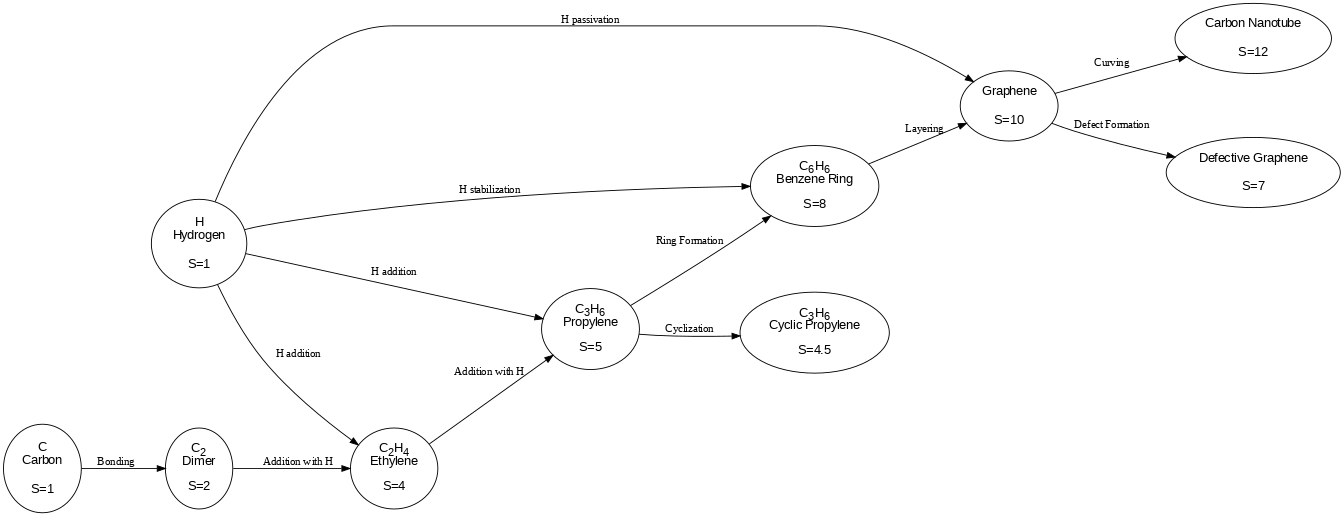
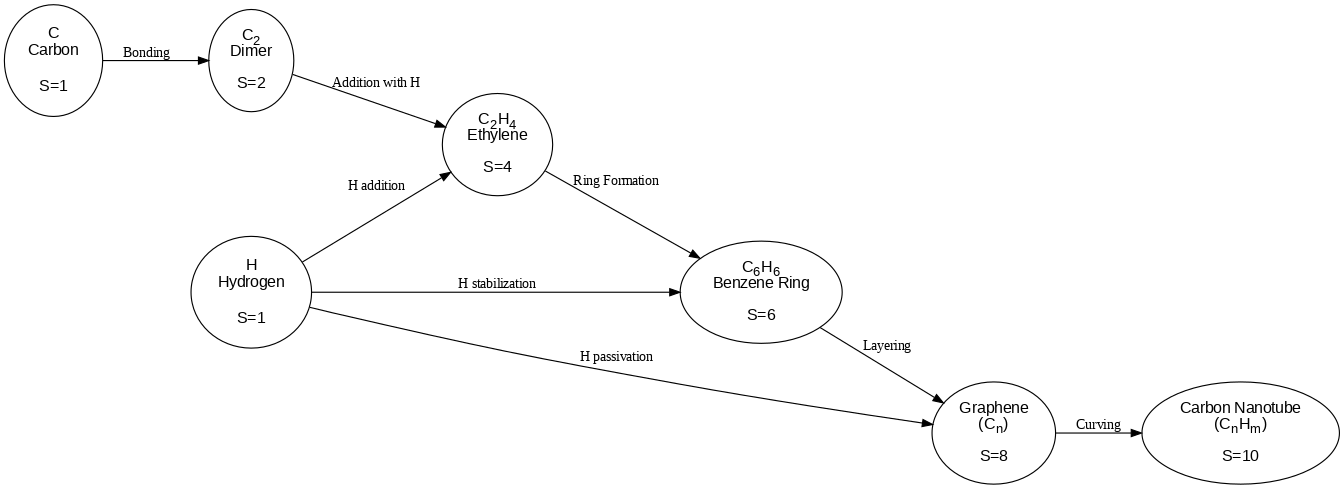
Simplified chemical examples

diff --git a/main.tex b/main.tex
@@ -279,31 +279,19 @@ From a physical perspective, the behavior of token flows in the BA system parall
 
 Dynamic graphs have been used for switch-level simulation of transistor networks \cite{AdlerCAD}, where graph pathways are dynamically determined by the state of the on transistors, enabling specific connections to guide current flow. Similarly, in BA systems, token flow is governed by stability and probabilistic interactions, determining which nodes persist and propagate.
 
-\subsection{Chemical Examples: Oxidation and Hydrolysis}
-
-To illustrate the principles of BA systems in realistic chemical contexts, we present two examples: the oxidation of iron and the hydrolysis and esterification of acetic acid derivatives. These examples demonstrate how stability-driven selection and probabilistic interactions shape the dynamics of complex chemical systems.
+\subsection{Chemical Example: Iron Oxidation}
 
 \begin{figure}[h]
     \centering
-    \includegraphics[width=1\textwidth]{abc_oxi.png}
+    \includegraphics[width=1\textwidth,height=0.3\textwidth]{abc_oxi.png}
     \caption{Reaction network for iron oxidation, illustrating the stepwise formation of stable and intermediate compounds under stability constraints.}
     \label{fig:abc_oxi}
 \end{figure}
 
-The oxidation example (Figure~\ref{fig:abc_oxi}) represents a straightforward, abiotically occurring reaction network where iron (\(Fe\)) reacts with oxygen (\(O\)) to form various oxides. Starting with diatomic oxygen \(O_2\) formed from base oxygen atoms, the reaction progresses through intermediate oxides such as iron(II) oxide \(FeO\) to more stable compounds like hematite \(Fe_2O_3\) and magnetite \(Fe_3O_4\). Competing side reactions, such as partial oxidation and formation of unstable intermediates, highlight how stability influences the progression of reactions. This example provides a testable setup for validating the role of stability in directing reaction pathways. By assigning stability values to intermediates and products, we can simulate the token flow dynamics and compare them to experimental observations, demonstrating how stability-driven selection operates in an abiotic system.
+The principles of Bayesian Assembly (BA) systems can be illustrated through the oxidation of iron, a realistic and naturally occurring chemical process. As shown in Figure~\ref{fig:abc_oxi}, the oxidation of iron (\(Fe\)) proceeds through a network of reactions driven by stability constraints. Oxygen (\(O\)) forms diatomic oxygen (\(O_2\)), which reacts with iron to produce a series of oxides, including iron(II) oxide (\(FeO\)), iron(III) oxide (\(Fe_2O_3\), hematite), and iron(II,III) oxide (\(Fe_3O_4\), magnetite). These reactions represent a progression from less stable intermediates to thermodynamically favored compounds. Competing pathways, such as partial oxidation or the formation of unstable intermediates, illustrate how stability shapes the evolution of the system, favoring reactions that lead to more persistent and energetically favorable products.
 
-\begin{figure}[h]
-    \centering
-    \includegraphics[width=1\textwidth]{abc_hydro.png}
-    \caption{Reaction network for hydrolysis and esterification, illustrating stability-driven selection and competing pathways.}
-    \label{fig:abc_hydro}
-\end{figure}
+In the BA framework, node stability \(S(p)\) quantifies the persistence of each compound, with higher stability values assigned to products like hematite and magnetite due to their robust bonding and lower susceptibility to dissociation. This reaction network provides a testable system for validating the role of stability in driving reaction pathways. By simulating token flow dynamics based on stability values, the framework captures how high-stability compounds emerge and dominate over successive generations, aligning with experimental observations of oxidation processes.
 
-The hydrolysis example (Figure~\ref{fig:abc_hydro}) involves a lab-testable reaction network centered on the stepwise formation and breakdown of esters. Starting with acetic acid \(CH_3COOH\) and methanol \(CH_3OH\), the primary pathway includes esterification to form methyl acetate \(CH_3COOCH_3\) and subsequent reactions leading to acetic anhydride \((CH_3CO)_2O\) and ethyl acetate \(CH_3COOCH_2CH_3\). Side reactions, including hydrolysis and reverse reactions, introduce competing flows that reduce stability and divert resources. This reaction network is ideal for validating BA system simulations, as it allows us to assign stability values to intermediates and observe how token flows evolve under varying experimental conditions.
-
-The stabilities in the oxidation and hydrolysis graphs are grounded in their underlying chemistry. Stable products such as hematite in oxidation or methyl acetate in hydrolysis are thermodynamically favored, while intermediates like partial oxides or transient esters have lower stabilities due to less favorable energy profiles. These examples highlight the similarities and distinctions between BA systems and Assembly Theory (AT). While AT focuses on tracing observed objects back to their assembly pathways using the assembly index, BA systems emphasize forward dynamics, showing how stability constraints and probabilistic interactions drive the emergence and persistence of patterns. This forward-looking perspective aligns well with real-world processes, offering a dynamic framework for studying chemical evolution.
-
-Both examples underscore the versatility of BA systems in modeling chemical evolution. The oxidation example offers an abiotic, naturally occurring process that directly aligns with the principles of stability-driven selection. In contrast, the hydrolysis example provides a more complex, experimentally accessible network where competing pathways and stability dynamics can be systematically tested. Together, these examples bridge theoretical and experimental studies of dynamic assembly and information evolution.
 
 \subsection{Organic Chemistry Examples and Their BA System Interpretations}
 \label{sec:organic-ba-examples}
@@ -312,25 +300,26 @@ Two reaction graphs from organic chemistry provide illustrative cases for unders
 
 \begin{figure}[h]
     \centering
-    \includegraphics[width=1\textwidth]{abc_nano.png}
+    \includegraphics[width=1\textwidth,height=0.45\textwidth]{abc_nano.png}
     \caption{Reaction graph for possible Carbon Nanostructure Assembly}
     \label{fig:abc_nano}
 \end{figure}
 
-Figure~\ref{fig:abc_nano} (an abstract reaction graph) shows a pathway in which simple carbon monomers C and hydrogen H build successively more complex carbon structures. The early stages involve the formation of C$_2$ (a carbon dimer) or small hydrocarbons like C$_2$H$_4$ (ethylene) and C$_3$H$_6$ (propylene). With sufficient ring closure, benzene C$_6$H$_6$ emerges and subsequently layers into planar graphene sheets. Ultimately, these sheets can curl to form carbon nanotubes, a high-stability configuration known for remarkable mechanical and electrical properties. Alongside the main path, less stable species, such as cyclic propylene or defective graphene, can appear transiently but typically drop out due to lower persistence.
+Figure~\ref{fig:abc_nano} illustrates an abstract reaction graph depicting the progressive assembly of carbon-based structures, starting from simple carbon monomers (\( \text{C} \)) and hydrogen atoms (\( \text{H} \)). In the early stages, carbon atoms bond to form dimers (\( \text{C}_2 \)) or small hydrocarbons like ethylene (\( \text{C}_2\text{H}_4 \)). Through additional interactions and stabilization processes, these smaller molecules transition into increasingly complex structures, such as benzene (\( \text{C}_6\text{H}_6 \)), which serves as a precursor for planar graphene sheets (\( \text{C}_n \)). Ultimately, graphene sheets curl into carbon nanotubes (\( \text{C}_n\text{H}_m \)), high-stability configurations characterized by their exceptional mechanical and electrical properties. 
 
-In a BA interpretation, each compound is assigned a stability $S(p)$ proportional to its capacity for remaining intact or re-forming after partial disruption. The early small molecules (C, H) have baseline stability values. As ring systems and extended lattices form (benzene, graphene, nanotubes), their stability parameters increase, reflecting stronger bonding and lower tendencies to break down. The generational updates in a BA model thus capture how more stable compounds accumulate, shaping the reaction space in ways that favor advanced nanostructures. In contrast, pathways leading to fragile intermediates fade out, illustrating how repeated interactions and node-level stability can bias the overall molecular landscape.
+The main pathway emphasizes the gradual increase in structural complexity and stability. Alongside this progression, less stable intermediates, such as defective graphene or transient molecules, may arise but typically do not persist due to lower stability. These transient species reflect pathways that are accessible in the reaction space but are pruned over successive iterations. Here, stability \( S(p) \) plays a central role in determining the persistence and influence of each compound. Simple elements (\( \text{C} \), \( \text{H} \)) and early products (\( \text{C}_2 \), \( \text{C}_2\text{H}_4 \)) possess baseline stability values, representing their shorter lifetimes and higher turnover rates. As more complex compounds form, their stability parameters increase, reflecting stronger bonding, lower dissociation rates, and greater resistance to perturbation. Generational updates in a BA model dynamically favor the accumulation of these high-stability patterns, leading to the dominance of advanced nanostructures. In contrast, low-stability pathways fade over time, illustrating how stability-driven selection sculpts the molecular landscape and guides the emergence of ordered, complex systems.
+
 
 \begin{figure}[h]
     \centering
-    \includegraphics[width=1\textwidth]{abc_prerna.png}
+    \includegraphics[width=1\textwidth,height=0.4\textwidth]{abc_prerna.png}
     \caption{Reaction graph for possible pre-RNA Sugar Assembly}
     \label{fig:abc_prerna}
 \end{figure}
 
-Figure~\ref{fig:abc_prerna} shows another system in which small carbonyl-containing molecules, such as formaldehyde CH$_2$O, condense to form sugars of increasing chain length. Glycolaldehyde C$_2$H$_4$O$_2$ and glyceraldehyde C$_3$H$_6$O$_3$ pave the way toward ribose C$_5$H$_{10}$O$_5$, a critical building block for RNA. The final phosphorylation step produces ``activated ribose,'' a key precursor in nucleotide formation. As in the previous example, some by-products (branched sugars, unstable intermediates, or cyclic variants) appear momentarily, but generally possess lower stability parameters and thus do not dominate.
+Figure~\ref{fig:abc_prerna} illustrates a simplified reaction network where small carbonyl-containing molecules, such as formaldehyde (CH$_2$O), undergo pairwise interactions to form sugars of increasing complexity. The pathway begins with the condensation of formaldehyde into glycolaldehyde (C$_2$H$_4$O$_2$), which can interact further to form intermediate compounds, such as a dimer of formaldehyde and glycolaldehyde. These intermediates then serve as precursors to ribose (C$_5$H$_{10}$O$_5$), a key sugar and a crucial building block for RNA. Alongside the main reaction pathway, side reactions lead to the formation of less stable by-products, such as branched sugars, which typically dissipate due to their lower persistence.
 
-Within a BA framework, stability $S(p)$ captures the likelihood that each sugar or intermediate persists through partial reaction cycles. Ribose, for example, attains a relatively high stability once formed, whereas isomeric or degradative pathways lead to compounds with lower stability. Repetitive generational updates favor the compounds that consistently re-emerge, thus incrementally biasing the distribution toward robust sugar structures. This mechanism parallels plausible prebiotic scenarios, where even slight differences in resilience or feedback can drive the system toward certain key biosynthetic intermediates.
+In this Bayesian Assembly (BA) framework, stability $S(p)$ quantifies the likelihood that each compound persists over successive reaction cycles. Ribose, for instance, achieves a high stability once formed, enabling its accumulation over generations. By contrast, transient intermediates and less stable by-products, such as branched sugars, quickly dissipate and contribute minimally to the evolving population. 
 
 These two examples from organic chemistry highlight how stability may play a key role in complex reaction graphs. The BA perspective supplements conventional kinetic modeling by focusing on net generational outcomes and selective retention, rather than detailing every reversible step. In doing so, BA systems reveal how certain ``attractor'' molecules or assemblies can emerge in an otherwise large and branching reaction space, reinforcing the view that stability-driven selection is a powerful force in shaping molecular evolution.
 
@@ -371,12 +360,12 @@ This example illustrates a Bayesian Assembly (BA) system applied to an economic 
 
 \begin{figure}[h]
     \centering
-    \includegraphics[width=0.8\textwidth]{abc_eco.png}
+    \includegraphics[width=1\textwidth]{abc_eco.png}
     \caption{Industry ecosystem represented as a BA system, showing the evolution from base businesses (\( A, B, C \)) to partnerships and stable integrated networks (\( ABAC, ABBC \)).}
     \label{fig:ba_economic}
 \end{figure}
 
-Stable nodes, such as \( AB \) (manufacturer-retailer) and \( ABBC \) (retail-driven networks), act as attractors, accumulating resources (tokens) over generations. Less stable nodes, including failed ventures (\( S=0 \)), dissipate quickly, redistributing tokens to more viable configurations. This process mirrors the dynamics of BA systems, where selection amplifies stable patterns and suppresses randomness, driving the emergence of structured, low-entropy configurations. The economic analogy emphasizes how stability influences token flow, resource allocation, and the formation of hierarchical networks in complex systems. The tokens on this graph (individual companies) will naturally flock to configurations that are more stable and persistent, representing more business opportunities.
+Stable nodes, such as \( AB \) (manufacturer-retailer) and \( ABBC \) (retail-driven networks), act as attractors, accumulating resources (tokens) over generations. Less stable nodes, including failed ventures (\( S=0 \)), dissipate quickly, redistributing tokens to more viable configurations. This process mirrors the dynamics of BA systems, where selection amplifies stable patterns and suppresses randomness, driving the emergence of structured, low-entropy configurations. The economic analogy emphasizes how stability influences token flow, resource allocation, and the formation of hierarchical networks in complex systems. The tokens in this graph (individual companies) will naturally flow to configurations that are more stable and persistent, representing more business opportunities.
 
 \section{Top-Down vs.\ Bottom-Up Dynamics in BA Systems}
 \label{sec:topdown-bottomup}
